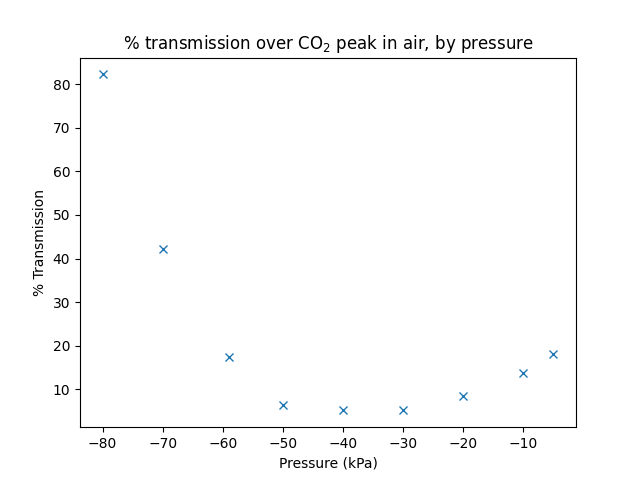
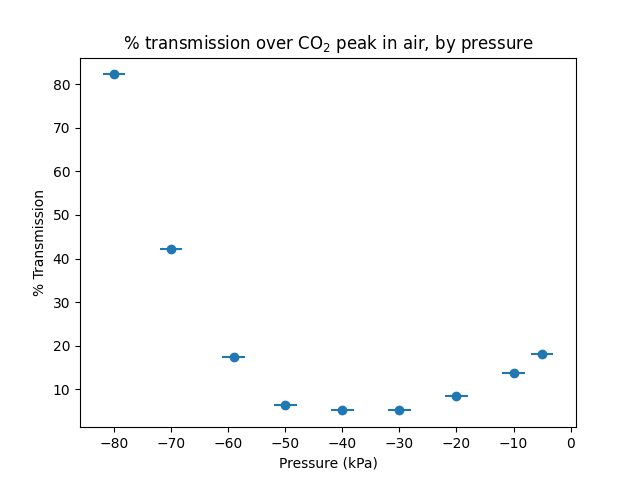
added error bars to CO2 transmission vs pressure plots

diff --git a/src/analysis.py b/src/analysis.py
@@ -7,7 +7,6 @@ Author: Shiqi Xu
 """
 
 from pathlib import Path
-import re
 
 import numpy as np
 import matplotlib.pyplot as plt
@@ -126,7 +125,13 @@ if __name__ == "__main__":
             list_co2_transmission.append(co2_transmission)
             list_pressures.append(int(pressure_labels[j][:-3]))
         plt.figure()
-        plt.plot(list_pressures, list_co2_transmission, "x")
+        plt.plot(list_pressures, list_co2_transmission, "o")
+        plt.errorbar(
+            list_pressures,
+            list_co2_transmission,
+            xerr=2,
+            fmt="none",
+        )  # pressure uncertainty = 2 kPa
         plt.title(
             "% transmission over CO$_2$ peak in " + sample_types[i] + ", by pressure"
         )
@@ -158,13 +163,13 @@ if __name__ == "__main__":
         Path.mkdir(figure_path / "resolution")
     except OSError:
         pass
-    # spectra.overlay_spectra(
-    #     list_argon_wavenumbers,
-    #     list_argon_intensities,
-    #     "Argon at 0 kPa, at different resolutions",
-    #     "Wavenumber (cm$^{-1}$)",
-    #     "Single-Beam Intensity (arbitrary units)",
-    #     ["1.0 resolution", "4.0 resolution", "16.0 resolution"],
-    #     save_fig=True,
-    #     path_save=figure_path / "resolution" / "argon_0kPa_by_resolution.png",
-    # )
+    spectra.overlay_spectra(
+        list_argon_wavenumbers,
+        list_argon_intensities,
+        "Argon at 0 kPa, at different resolutions",
+        "Wavenumber (cm$^{-1}$)",
+        "Single-Beam Intensity (arbitrary units)",
+        ["1.0 resolution", "4.0 resolution", "16.0 resolution"],
+        save_fig=True,
+        path_save=figure_path / "resolution" / "argon_0kPa_by_resolution.png",
+    )
